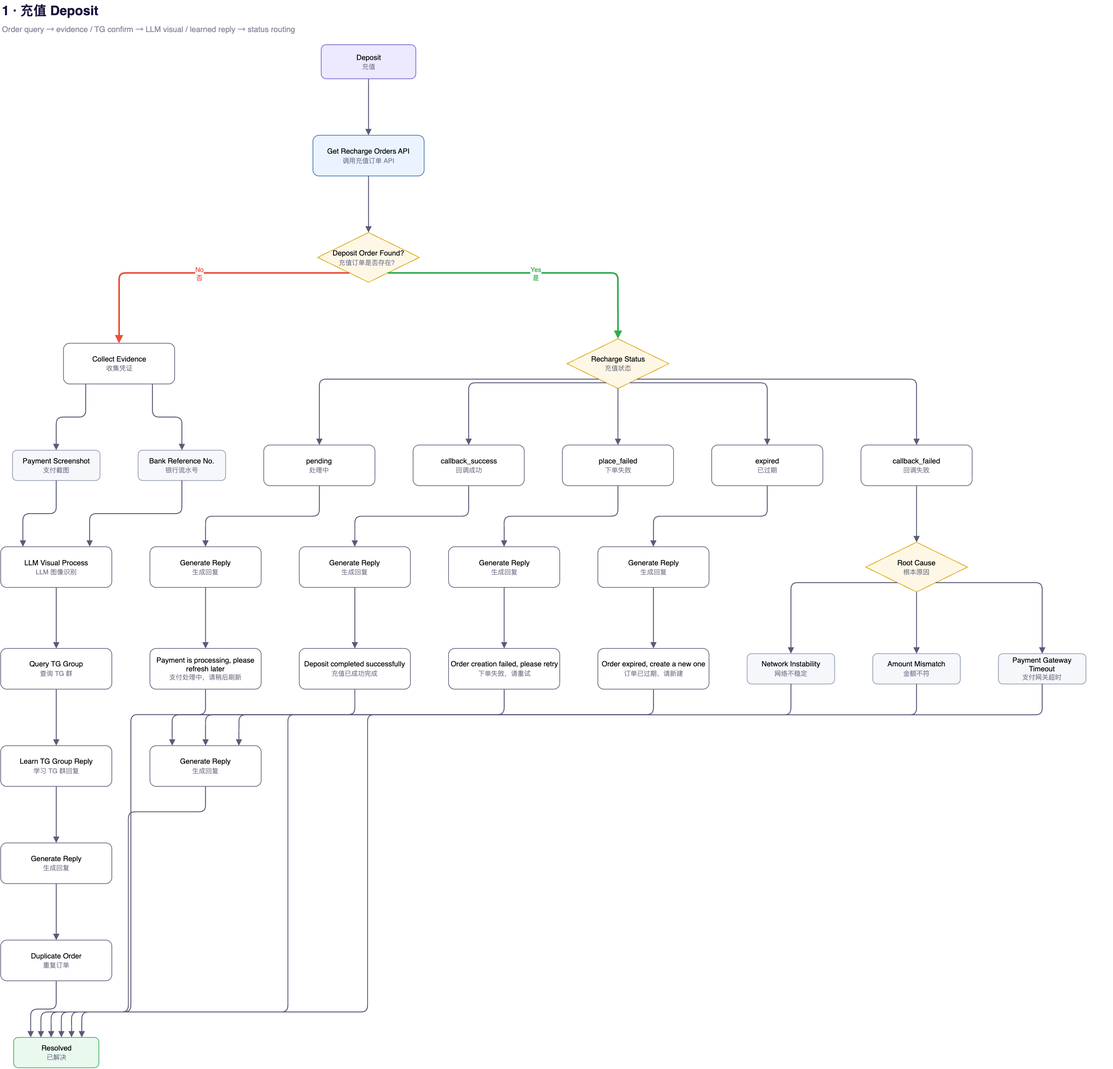
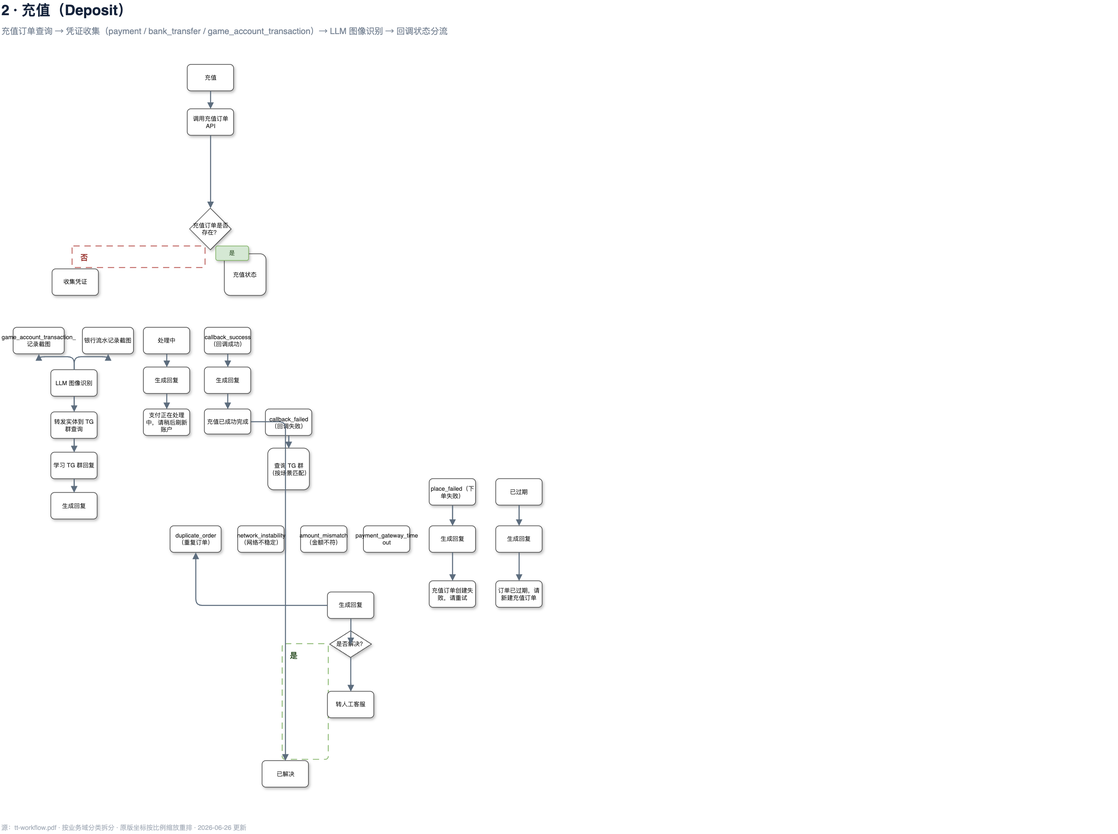
publish: 2026/6/26 13:24:58

diff --git a/docs/AI客服/TT包网_智能客服流程方案.html b/docs/AI客服/TT包网_智能客服流程方案.html
@@ -74,8 +74,8 @@ body{font-family:-apple-system,BlinkMacSystemFont,"PingFang SC","Hiragino Sans G
   <div class="sub">Salesmartly 插件接入 · 包网开放 API 对接 · 精简 SOP 与完整工作流</div>
   <div class="meta-row">
     <span>● 渠道：TT 包网（TikTok）· Salesmartly 在线插件</span>
-    <span>● 整理日期：2026-06-18</span>
-    <span>● 来源：SOP 流程图 + tt-workflow + 包网 API v2.0</span>
+    <span>● 更新日期：2026-06-26（Figma 同步）</span>
+    <span>● 来源：SOP + tt-workflow + AI 输出契约 + 包网 API v2.0</span>
   </div>
 </div>
 
@@ -83,7 +83,7 @@ body{font-family:-apple-system,BlinkMacSystemFont,"PingFang SC","Hiragino Sans G
   <div class="stat-card c-teal"><div class="num">4</div><div class="label">包网开放 API</div></div>
   <div class="stat-card c-blu"><div class="num">6</div><div class="label">业务分支</div></div>
   <div class="stat-card c-grn"><div class="num">8</div><div class="label">完整流程子页</div></div>
-  <div class="stat-card c-ora"><div class="num">2</div><div class="label">流程图（精简/完整）</div></div>
+  <div class="stat-card c-ora"><div class="num">5</div><div class="label">流程图（精简3+完整8 标签）</div></div>
   <div class="stat-card c-pur"><div class="num">1</div><div class="label">Figma 原型</div></div>
 </div>
 
@@ -114,20 +114,24 @@ body{font-family:-apple-system,BlinkMacSystemFont,"PingFang SC","Hiragino Sans G
       <span class="tag tag-cz">充值（②API）</span><span class="tag tag-tx">提现（③API）</span>
       <span class="tag tag-cpf">CPF 绑定/修改</span><span class="tag tag-acct">账户（①API）</span>
       <span class="tag tag-game">游戏/设备/页面</span><span class="tag tag-act">活动奖励（④API）</span></p>
-    <div class="tip">两张流程图：<b>精简流程图</b>（第二节）= 单页 SOP 全局视图；<b>完整流程图</b>（第三节）= 按业务域拆分的 8 个子页，细节最全。点击「全屏查看」可像 Figma 一样拖拽平移、缩放。</div>
+    <div class="tip"><b>2026-06-26 同步（Figma）：</b>①新增<b>统一 AI 输出契约</b>（每条咨询返回 <code>domain / intent / workflow(status·next_action·requires_human) / failure / risk</code> 的 JSON，见第二节「AI 输出契约」页）；②业务状态码全面改 <b>snake_case</b>（<code>callback_success / pending_review / manual_review …</code>，附历史数字码对照）；③充值凭证类型扩展为 <code>payment_screenshot / bank_transfer_record / game_account_transaction_record</code>；④账户问题重命名 <code>cannot_login / cannot_find_uid / cpf_update / account_restricted</code>；⑤奖励新增 <b>兑换码(redeem_code)子流程</b> 与 <code>cpf_mismatch / pix_key_invalid</code> 原因码。详见第二节「同步增量」页。</div>
+    <div class="tip">两张流程图：<b>精简流程图</b>（第二节）= 3 页（操作 SOP + AI 输出契约 + 同步增量）；<b>完整流程图</b>（第三节）= 按业务域拆分的 8 个子页，细节最全。点击「全屏查看」可像 Figma 一样拖拽平移、缩放。</div>
   </div>
 </div>
 
 <div class="fc-container" id="s2">
-  <h2>二、精简流程图（SOP 全局）</h2>
-  <div class="fcsub">对应 draw.io：TT包网_智能客服SOP流程.drawio　·　单页全局视图</div>
-  <div class="fc-toolbar">
-    <button onclick="zoom(this,0.8)">－ 缩小</button><span class="zlbl">100%</span>
-    <button onclick="zoom(this,1.25)">＋ 放大</button><button onclick="zreset(this)">重置</button>
-    <button class="btn" onclick="openViewerBtn(this)" style="margin-left:auto;padding:6px 14px">⛶ 全屏查看</button>
+  <h2>二、精简流程图（SOP）</h2>
+  <div class="fcsub">对应 draw.io：TT包网_智能客服SOP流程.drawio　·　2026-06-26 更新为 3 页：操作 SOP + AI 输出契约 + 同步增量</div>
+  <div class="branch-group">
+    <div class="branch-tab-bar"><div class="branch-tab active" onclick="showTab(this)">操作 SOP 流程</div><div class="branch-tab" onclick="showTab(this)">AI 输出契约（JSON）</div><div class="branch-tab" onclick="showTab(this)">2026-06-26 同步增量</div></div>
+    <div class="fc-toolbar">
+      <button onclick="zoom(this,0.8)">－ 缩小</button><span class="zlbl">100%</span>
+      <button onclick="zoom(this,1.25)">＋ 放大</button><button onclick="zreset(this)">重置</button>
+      <button class="btn" onclick="openViewerBtn(this)" style="margin-left:auto;padding:6px 14px">⛶ 全屏查看</button>
+    </div>
+    <div class="branch-panel active"><div class="branch-cap">操作 SOP · 全局接待流程（Salesmartly 接入版）</div><div class="fc-viewport"><img src="tt-flow/sop.png" data-base="2428" data-title="精简流程图 · 操作 SOP" loading="lazy" style="width:2428px" ondblclick="openViewer(this.src,this.dataset.title)" title="双击全屏 · 拖拽平移 · 工具栏缩放"></div></div><div class="branch-panel"><div class="branch-cap">AI 引擎输出契约 · Sample JSON（domain / intent / workflow / failure / risk）</div><div class="fc-viewport"><img src="tt-flow/sop_contract.png" data-base="1507" data-title="精简流程图 · AI 输出契约" loading="lazy" style="width:1507px" ondblclick="openViewer(this.src,this.dataset.title)" title="双击全屏 · 拖拽平移 · 工具栏缩放"></div></div><div class="branch-panel"><div class="branch-cap">2026-06-26 Figma 同步增量 · snake_case 状态码对照 / 原因码 / 凭证类型 / 账户重命名 / 兑换码子流程</div><div class="fc-viewport"><img src="tt-flow/sop_increment.png" data-base="1507" data-title="精简流程图 · 同步增量" loading="lazy" style="width:1507px" ondblclick="openViewer(this.src,this.dataset.title)" title="双击全屏 · 拖拽平移 · 工具栏缩放"></div></div>
   </div>
-  <div class="fc-viewport" id="vp_sop"><img src="tt-flow/sop.png" data-base="1942" data-title="精简流程图（SOP）" loading="lazy" style="width:1942px" ondblclick="openViewer(this.src,this.dataset.title)" title="双击全屏 · 拖拽平移 · 工具栏缩放"></div>
-  <div class="fchint">提示：视口内可拖拽平移、滚轮滚动；「全屏查看」进入大图模式（拖拽平移 / 缩放 / 关闭）。</div>
+  <div class="fchint">提示：切换上方标签查看 SOP / 契约 / 增量；「全屏查看」进入大图模式（拖拽平移 / 缩放 / 关闭）。</div>
 </div>
 
 <div class="fc-container" id="s3">
@@ -140,7 +144,7 @@ body{font-family:-apple-system,BlinkMacSystemFont,"PingFang SC","Hiragino Sans G
       <button onclick="zoom(this,1.25)">＋ 放大</button><button onclick="zreset(this)">重置</button>
       <button class="btn" onclick="openViewerBtn(this)" style="margin-left:auto;padding:6px 14px">⛶ 全屏查看</button>
     </div>
-    <div class="branch-panel active"><div class="branch-cap">第 0 页 · 客户咨询入口与杂项分类</div><div class="fc-viewport" id="vp_0"><img src="tt-flow/p0_overview.png" data-base="642" data-title="完整流程 · 0 总览" loading="lazy" style="width:642px" ondblclick="openViewer(this.src,this.dataset.title)" title="双击全屏 · 拖拽平移 · 工具栏缩放"></div></div><div class="branch-panel"><div class="branch-cap">第 1 页 · 充值订单查询 → 状态分流</div><div class="fc-viewport" id="vp_1"><img src="tt-flow/p1_deposit.png" data-base="1355" data-title="完整流程 · 1 充值" loading="lazy" style="width:1355px" ondblclick="openViewer(this.src,this.dataset.title)" title="双击全屏 · 拖拽平移 · 工具栏缩放"></div></div><div class="branch-panel"><div class="branch-cap">第 2 页 · 提现状态机（10 状态）</div><div class="fc-viewport" id="vp_2"><img src="tt-flow/p2_withdraw.png" data-base="2330" data-title="完整流程 · 2 提现" loading="lazy" style="width:2330px" ondblclick="openViewer(this.src,this.dataset.title)" title="双击全屏 · 拖拽平移 · 工具栏缩放"></div></div><div class="branch-panel"><div class="branch-cap">第 3 页 · 活动识别 → 奖励记录分析</div><div class="fc-viewport" id="vp_3"><img src="tt-flow/p3_bonus.png" data-base="1612" data-title="完整流程 · 3 奖励" loading="lazy" style="width:1612px" ondblclick="openViewer(this.src,this.dataset.title)" title="双击全屏 · 拖拽平移 · 工具栏缩放"></div></div><div class="branch-panel"><div class="branch-cap">第 4 页 · 登录/CPF/找回/受限 四分支</div><div class="fc-viewport" id="vp_4"><img src="tt-flow/p4_account.png" data-base="1980" data-title="完整流程 · 4 账户" loading="lazy" style="width:1980px" ondblclick="openViewer(this.src,this.dataset.title)" title="双击全屏 · 拖拽平移 · 工具栏缩放"></div></div><div class="branch-panel"><div class="branch-cap">第 5 页 · 设备兼容性检查</div><div class="fc-viewport" id="vp_5"><img src="tt-flow/p5_device.png" data-base="1016" data-title="完整流程 · 5 设备" loading="lazy" style="width:1016px" ondblclick="openViewer(this.src,this.dataset.title)" title="双击全屏 · 拖拽平移 · 工具栏缩放"></div></div><div class="branch-panel"><div class="branch-cap">第 6 页 · spin / bet / reward</div><div class="fc-viewport" id="vp_6"><img src="tt-flow/p6_game_err.png" data-base="2735" data-title="完整流程 · 6 游戏错误" loading="lazy" style="width:2735px" ondblclick="openViewer(this.src,this.dataset.title)" title="双击全屏 · 拖拽平移 · 工具栏缩放"></div></div><div class="branch-panel"><div class="branch-cap">第 7 页 · 加载失败 / 访问拒绝</div><div class="fc-viewport" id="vp_7"><img src="tt-flow/p7_page_err.png" data-base="1098" data-title="完整流程 · 7 页面问题" loading="lazy" style="width:1098px" ondblclick="openViewer(this.src,this.dataset.title)" title="双击全屏 · 拖拽平移 · 工具栏缩放"></div></div>
+    <div class="branch-panel active"><div class="branch-cap">第 0 页 · 客户咨询入口与杂项分类</div><div class="fc-viewport" id="vp_0"><img src="tt-flow/p0_overview.png" data-base="1701" data-title="完整流程 · 0 总览" loading="lazy" style="width:1701px" ondblclick="openViewer(this.src,this.dataset.title)" title="双击全屏 · 拖拽平移 · 工具栏缩放"></div></div><div class="branch-panel"><div class="branch-cap">第 1 页 · 充值订单查询 → 状态分流</div><div class="fc-viewport" id="vp_1"><img src="tt-flow/p1_deposit.png" data-base="1701" data-title="完整流程 · 1 充值" loading="lazy" style="width:1701px" ondblclick="openViewer(this.src,this.dataset.title)" title="双击全屏 · 拖拽平移 · 工具栏缩放"></div></div><div class="branch-panel"><div class="branch-cap">第 2 页 · 提现状态机（10 状态）</div><div class="fc-viewport" id="vp_2"><img src="tt-flow/p2_withdraw.png" data-base="1701" data-title="完整流程 · 2 提现" loading="lazy" style="width:1701px" ondblclick="openViewer(this.src,this.dataset.title)" title="双击全屏 · 拖拽平移 · 工具栏缩放"></div></div><div class="branch-panel"><div class="branch-cap">第 3 页 · 活动识别 → 奖励记录分析</div><div class="fc-viewport" id="vp_3"><img src="tt-flow/p3_bonus.png" data-base="1701" data-title="完整流程 · 3 奖励" loading="lazy" style="width:1701px" ondblclick="openViewer(this.src,this.dataset.title)" title="双击全屏 · 拖拽平移 · 工具栏缩放"></div></div><div class="branch-panel"><div class="branch-cap">第 4 页 · 登录/CPF/找回/受限 四分支</div><div class="fc-viewport" id="vp_4"><img src="tt-flow/p4_account.png" data-base="1701" data-title="完整流程 · 4 账户" loading="lazy" style="width:1701px" ondblclick="openViewer(this.src,this.dataset.title)" title="双击全屏 · 拖拽平移 · 工具栏缩放"></div></div><div class="branch-panel"><div class="branch-cap">第 5 页 · 设备兼容性检查</div><div class="fc-viewport" id="vp_5"><img src="tt-flow/p5_device.png" data-base="1701" data-title="完整流程 · 5 设备" loading="lazy" style="width:1701px" ondblclick="openViewer(this.src,this.dataset.title)" title="双击全屏 · 拖拽平移 · 工具栏缩放"></div></div><div class="branch-panel"><div class="branch-cap">第 6 页 · spin / bet / reward</div><div class="fc-viewport" id="vp_6"><img src="tt-flow/p6_game_err.png" data-base="1701" data-title="完整流程 · 6 游戏错误" loading="lazy" style="width:1701px" ondblclick="openViewer(this.src,this.dataset.title)" title="双击全屏 · 拖拽平移 · 工具栏缩放"></div></div><div class="branch-panel"><div class="branch-cap">第 7 页 · 加载失败 / 访问拒绝</div><div class="fc-viewport" id="vp_7"><img src="tt-flow/p7_page_err.png" data-base="1701" data-title="完整流程 · 7 页面问题" loading="lazy" style="width:1701px" ondblclick="openViewer(this.src,this.dataset.title)" title="双击全屏 · 拖拽平移 · 工具栏缩放"></div></div>
   </div>
   <div class="fchint">提示：切换上方标签查看不同业务域；「全屏查看」进入大图模式。</div>
 </div>
@@ -181,10 +185,13 @@ body{font-family:-apple-system,BlinkMacSystemFont,"PingFang SC","Hiragino Sans G
       <tr><td><b>④ 奖励记录</b><br><span class="tag tag-api">活动分支</span></td><td><code>GET /bonus/records?uid=&amp;activity_name=&amp;activity_key=</code></td>
         <td><code>activity_id</code> · <code>activity_name</code> · <code>activity_key</code> · <code>subcategory</code> · <code>reward_amount</code> · <code>claim_time</code></td></tr>
     </table>
-    <p style="margin-top:14px"><b>充值订单状态（status）：</b>
-      <span class="tag tag-cz">0 待支付</span><span class="tag tag-cz">1 回调成功</span><span class="tag tag-cz">2 下单失败</span><span class="tag tag-cz">3 回调失败</span><span class="tag tag-cz">4 已过期</span></p>
+    <div class="tip" style="margin-top:14px"><b>状态码命名（2026-06-26 起以 snake_case 为准，括号为历史数字码）：</b>统一收敛到 AI 输出契约的 <code>workflow.status</code> 字段，详见第二节「同步增量」对照表。</div>
+    <p style="margin-top:10px"><b>充值订单状态（status）：</b>
+      <span class="tag tag-cz">pending_place (0) 待支付</span><span class="tag tag-cz">callback_success (1) 回调成功</span><span class="tag tag-cz">place_failed (2) 下单失败</span><span class="tag tag-cz">callback_failed (3) 回调失败</span><span class="tag tag-cz">expired (4) 已过期</span><span class="tag tag-cz">+ 原因码 duplicate_order / network_instability / amount_mismatch / payment_gateway_timeout</span></p>
     <p><b>提现订单状态（status）：</b>
-      <span class="tag tag-tx">0 出款中</span><span class="tag tag-tx">1 回调成功</span><span class="tag tag-tx">2 下单失败</span><span class="tag tag-tx">3 回调失败</span><span class="tag tag-tx">4 待下单</span><span class="tag tag-tx">5 待审核</span><span class="tag tag-tx">6 审核通过</span><span class="tag tag-tx">7 审核退还</span><span class="tag tag-tx">8 审核没收</span><span class="tag tag-tx">9 人工复审</span></p>
+      <span class="tag tag-tx">processing (0) 出款中</span><span class="tag tag-tx">callback_success (1) 回调成功</span><span class="tag tag-tx">place_failed (2) 下单失败</span><span class="tag tag-tx">callback_failed (3) 回调失败</span><span class="tag tag-tx">pending_place (4) 待下单</span><span class="tag tag-tx">pending_review (5) 待审核</span><span class="tag tag-tx">review_approved (6) 审核通过</span><span class="tag tag-tx">review_rejected (7) 审核退还</span><span class="tag tag-tx">review_confiscated (8) 没收</span><span class="tag tag-tx">manual_review (9) 人工复审</span><span class="tag tag-tx">pending_submission 待提交</span><span class="tag tag-tx">withdrawal_processing 提现处理中</span></p>
+    <p><b>提现失败/风控原因码（failure.reason / risk）：</b>
+      <span class="tag tag-tx">minimum_amount_not_met 未达最低</span><span class="tag tag-tx">insufficient_turnover 流水不足</span><span class="tag tag-tx">withdrawal_limit_exceeded 限额超出</span><span class="tag tag-tx">identity_verification_required 需身份验证</span><span class="tag tag-tx">risk_review 风控审核</span><span class="tag tag-tx">cpf_mismatch CPF不符</span><span class="tag tag-tx">pix_key_invalid PIX无效</span></p>
     <div class="note">通用约定：所有请求附加 <b>app_id + timestamp + sign</b>；金额单位为<b>分</b>（÷100 转元）；时间为 <b>UTC / ISO 8601</b>；订单号、手机号等敏感字段已<b>脱敏</b>；列表接口支持分页（pageSize 最大 100）。错误码：0 成功 / 7 业务失败 / 401 未认证（缺 app_id / app_id 无效 / 凭证过期）/ 403 签名验证失败或无权限 / 404 资源不存在 / 500 服务器错误。</div>
   </div>
 </div>

diff --git a/docs/AI客服/TT包网_智能客服测试用例.html b/docs/AI客服/TT包网_智能客服测试用例.html
@@ -82,11 +82,11 @@ tr.done td.id::after{content:"  ✓";color:#10b981;font-weight:800;font-size:13p
 
 <div class="header">
 <h1>TT 包网 · 智能客服测试用例（含测试截图）</h1>
-<div class="sub">基于《TT 包网 · 智能客服流程方案》（精简 SOP + tt-workflow 8 子页）全节点拆解 · Salesmartly 插件接入 · 包网开放 API v2.0 · 真实客服测试截图</div>
+<div class="sub">基于《TT 包网 · 智能客服流程方案》（精简 SOP + tt-workflow 8 子页 + AI 输出契约）全节点拆解 · Salesmartly 插件接入 · 包网开放 API v2.0 · 真实客服测试截图</div>
 <div class="meta">
 <span>渠道：TT 包网（TikTok）/ Salesmartly 插件</span>
-<span>版本：v1.0</span>
-<span>整理时间：2026-06-20</span>
+<span>版本：v1.1（2026-06-26 Figma 同步）</span>
+<span>更新时间：2026-06-26</span>
 <span>用例总数：<strong id="totalCases">0</strong></span>
 <span>含测试截图用例：<strong id="imgCases">0</strong></span>
 </div>
@@ -124,6 +124,7 @@ tr.done td.id::after{content:"  ✓";color:#10b981;font-weight:800;font-size:13p
 <li><a href="#m9">9. 页面问题（加载失败 / 访问拒绝）</a><span class="cnt" id="mc9"></span></li>
 <li><a href="#m10">10. 流程闭环（是否已解决）</a><span class="cnt" id="mc10"></span></li>
 <li><a href="#m11">11. 包网开放 API 集成 & MD5 签名鉴权（v2.0）</a><span class="cnt" id="mc11"></span></li>
+<li><a href="#m12">12. AI 输出契约 & 状态码规范（2026-06-26）</a><span class="cnt" id="mc12"></span></li>
 </ul>
 </div>
 
@@ -169,6 +170,8 @@ tr.done td.id::after{content:"  ✓";color:#10b981;font-weight:800;font-size:13p
 <tr><td class="id">TC-2014</td><td><span class="tag tag-func">功能</span></td><td>回调失败(3) 根本原因细分</td><td>②API 返回 status=3 回调失败</td><td><ol class="steps"><li>AI 读取根本原因 Root Cause</li></ol></td><td class="expect">AI 按 <strong>网络不稳定 / 金额不符 / 支付网关超时</strong> 三类原因分别说明并给出对应处理（重试 / 核对金额 / 稍后再试）</td><td>—</td><td><span class="prio p1">P1</span></td></tr>
 <tr><td class="id">TC-2015</td><td><span class="tag tag-int">集成</span></td><td>转发三方群(TG BOT) 并学习回复</td><td>回调失败/已过期或无订单，需三方核实</td><td><ol class="steps"><li>AI 生成【三方查询·充值未到账】转发 TG BOT</li><li>三方人员 reply 结果</li><li>BOT 捕获并学习回复</li></ol></td><td class="expect">AI <strong>转发三方群</strong>并解析三方 reply（已回调 / 未查到 / 凭证不完整）反馈用户，<span class='warn'>不丢失 reply 归属</span></td><td><div class="shot-cell"><img class="shot" src="tt-test-shots/deposit-4elem.png" data-cap="随查询转发的充值凭证"><div class="shot-cap">转发凭证</div></div></td><td><span class="prio p0">P0</span></td></tr>
 <tr><td class="id">TC-2016</td><td><span class="tag tag-edge">边界</span></td><td>以银行流水号替代截图核实</td><td>AI 已请求充值凭证</td><td><ol class="steps"><li>用户仅提供银行流水号/参考号（Clave de rastreo）</li><li>AI 收集</li></ol></td><td class="expect">AI 接受<strong>银行流水号</strong>作为凭证之一并随查询转发；仍建议补充完整截图</td><td>—</td><td><span class="prio p1">P1</span></td></tr>
+<tr><td class="id">TC-2017</td><td><span class="tag tag-func">功能</span></td><td>凭证类型：银行流水记录（bank_transfer_record）</td><td>AI 已请求充值凭证（2026-06-26 新增凭证类型）</td><td><ol class="steps"><li>用户发送银行流水/转账记录截图（非收银台凭证）</li><li>AI 图像识别归类</li></ol></td><td class="expect">AI 识别凭证类型为 <strong>bank_transfer_record</strong>，提取金额/时间/交易号并随订单核实；区别于 payment_screenshot</td><td><div class="shot-cell"><img class="shot" src="tt-test-shots/deposit-proof.jpg" data-cap="银行流水/电子转账记录"><div class="shot-cap">银行流水记录</div></div></td><td><span class="prio p0">P0</span></td></tr>
+<tr><td class="id">TC-2018</td><td><span class="tag tag-func">功能</span></td><td>凭证类型：游戏账户交易记录（game_account_transaction_record）</td><td>AI 已请求充值凭证（2026-06-26 新增凭证类型）</td><td><ol class="steps"><li>用户发送游戏账户内的交易/充值记录截图</li><li>AI 图像识别归类</li></ol></td><td class="expect">AI 识别凭证类型为 <strong>game_account_transaction_record</strong>，结合 UID 与订单 API 交叉核对</td><td>—</td><td><span class="prio p0">P0</span></td></tr>
 </tbody></table>
 </div>
 
@@ -243,6 +246,8 @@ tr.done td.id::after{content:"  ✓";color:#10b981;font-weight:800;font-size:13p
 <tr><td class="id">TC-6008</td><td><span class="tag tag-edge">边界</span></td><td>活动条件不符</td><td>用户领取被拒</td><td><ol class="steps"><li>用户声称符合条件但未发放</li><li>AI 查④API 与活动规则</li></ol></td><td class="expect">AI 对照规则说明不符之处（如未达充值/流水门槛），引导满足条件后再领</td><td>—</td><td><span class="prio p1">P1</span></td></tr>
 <tr><td class="id">TC-6009</td><td><span class="tag tag-func">功能</span></td><td>其他活动 → 转人工</td><td>活动类型无法归类</td><td><ol class="steps"><li>AI 无法将活动归入平台原生/运营推广类</li><li>判定其他活动</li></ol></td><td class="expect">AI 对<strong>其他活动</strong>统一转人工处理，避免误答</td><td>—</td><td><span class="prio p1">P1</span></td></tr>
 <tr><td class="id">TC-6010</td><td><span class="tag tag-func">功能</span></td><td>资格条件细分指引</td><td>未满足领取资格</td><td><ol class="steps"><li>AI 查 TG 群活动要求</li><li>比对用户情况</li></ol></td><td class="expect">AI 按 <strong>活动时间窗 / 充值要求 / 流水要求 / 注册要求</strong> 四类分别说明缺口并指引</td><td><div class="shot-cell"><img class="shot" src="tt-test-shots/platform-activity.jpg" data-cap="平台活动页（资格条件）"><div class="shot-cap">活动资格</div></div></td><td><span class="prio p1">P1</span></td></tr>
+<tr><td class="id">TC-6011</td><td><span class="tag tag-func">功能</span></td><td>★ 兑换码子流程（redeem_code）· 有效</td><td>用户主张奖励缺失（2026-06-26 新增子流程）</td><td><ol class="steps"><li>AI 引导用户检查 SMS / 邮件 / Telegram 消息</li><li>请求 SMS/邮件/兑换码截图</li><li>LLM 图像识别提取兑换码</li><li>查询 TG 群验证兑换码 → 有效</li></ol></td><td class="expect">AI 给出<strong>兑换页导航指引</strong>并提示“请在过期前兑换”，附 claim 路径</td><td><div class="shot-cell"><img class="shot" src="tt-test-shots/sms-inbox.jpeg" data-cap="站内信召回兑换码（Codigo）"><div class="shot-cap">兑换码召回</div></div></td><td><span class="prio p0">P0</span></td></tr>
+<tr><td class="id">TC-6012</td><td><span class="tag tag-edge">边界</span></td><td>★ 兑换码子流程（redeem_code）· 无效</td><td>用户提供兑换码截图</td><td><ol class="steps"><li>LLM 提取兑换码</li><li>查询 TG 群验证 → 无效/不存在（Código não encontrado）</li></ol></td><td class="expect">AI 告知兑换码无效/已过期，核对来源；确认异常则<strong>转人工创建工单</strong>。<span class="warn">不臆造可兑换</span></td><td><div class="shot-cell"><img class="shot" src="tt-test-shots/redeem-fail.jpg" data-cap="兑换码无效 Código não encontrado"><div class="shot-cap">兑换码无效</div></div></td><td><span class="prio p0">P0</span></td></tr>
 </tbody></table>
 </div>
 
@@ -309,7 +314,24 @@ tr.done td.id::after{content:"  ✓";color:#10b981;font-weight:800;font-size:13p
 </tbody></table>
 </div>
 
-<div class="footer">TT 包网 · 智能客服测试用例 · v1.0 · 2026-06-20 · 截图来源：真实客服测试 · 流程依据：TT包网_智能客服流程方案</div>
+<div class="sec" id="m12">
+<div class="sec-head"><h2>12. AI 输出契约 & 状态码规范（2026-06-26 Figma 同步）</h2><span class="cnt-badge" id="mb12"></span></div>
+<div class="flow-ref">流程图节点（精简流程图·AI 输出契约/同步增量页）：工作流引擎对每条咨询统一返回 JSON —— 基础上下文(uid/platform_id/product_id) · 路由(domain·intent) · workflow(status·next_action·requires_human) · failure(category·reason·identified_by) · risk(label)；业务状态码统一 snake_case（含历史数字码对照）</div>
+<table class="tc"><thead><tr><th>ID</th><th>类型</th><th>用例名称</th><th>前置条件</th><th>详细步骤</th><th>期望结果</th><th>测试截图</th><th>优先级</th></tr></thead><tbody>
+<tr><td class="id">TC-12001</td><td><span class="tag tag-int">集成</span></td><td>★ AI 输出契约结构完整性</td><td>工作流引擎对一条咨询产出结果</td><td><ol class="steps"><li>触发任意业务咨询</li><li>检查引擎返回 JSON</li></ol></td><td class="expect">返回体含 <strong>domain / intent / workflow{status,next_action,requires_human} / failure / risk</strong> 全字段；基础上下文 uid/platform_id/product_id 必有。<span class="warn">缺字段应告警而非静默</span></td><td>—</td><td><span class="prio p0">P0</span></td></tr>
+<tr><td class="id">TC-12002</td><td><span class="tag tag-int">集成</span></td><td>★ requires_human=true → 强制转人工</td><td>workflow.requires_human=true</td><td><ol class="steps"><li>引擎返回 requires_human:true</li></ol></td><td class="expect"><strong>必须转人工客服</strong>，AI 不得自动闭环回复。<span class="warn">忽略该标记直接回复即缺陷</span></td><td>—</td><td><span class="prio p0">P0</span></td></tr>
+<tr><td class="id">TC-12003</td><td><span class="tag tag-int">集成</span></td><td>requires_human=false → AI 自动闭环</td><td>workflow.requires_human=false</td><td><ol class="steps"><li>引擎返回 requires_human:false + next_action:generate_reply</li></ol></td><td class="expect">AI 按 next_action 自动生成回复闭环，不必要地转人工应视为偏差</td><td>—</td><td><span class="prio p0">P0</span></td></tr>
+<tr><td class="id">TC-12004</td><td><span class="tag tag-int">集成</span></td><td>next_action 消费路由</td><td>引擎返回不同 next_action</td><td><ol class="steps"><li>分别返回 transfer_to_human_agent / generate_reply / collect_evidence / create_ticket</li></ol></td><td class="expect">AI 分别执行：转人工 / 生成回复 / 索取凭证 / 创建工单，<strong>动作与字段一致</strong></td><td>—</td><td><span class="prio p0">P0</span></td></tr>
+<tr><td class="id">TC-12005</td><td><span class="tag tag-int">集成</span></td><td>failure.category 决定话术模板</td><td>workflow 含 failure.category</td><td><ol class="steps"><li>分别返回 category = risk / payment / system / user_data</li></ol></td><td class="expect">AI 按失败大类选用对应话术模板（风控谨慎 / 支付核实 / 系统兜底 / 信息纠正），不串用</td><td>—</td><td><span class="prio p0">P0</span></td></tr>
+<tr><td class="id">TC-12006</td><td><span class="tag tag-func">功能</span></td><td>failure.reason 原因码映射</td><td>workflow 含 failure.reason</td><td><ol class="steps"><li>返回 cpf_mismatch / amount_mismatch / payment_gateway_timeout / duplicate_order / network_instability 等</li></ol></td><td class="expect">分别给出：引导更新 CPF / 重新发起 / 重试 / 引导查询账户 / 刷新或重试，<strong>原因码与话术一一对应</strong></td><td>—</td><td><span class="prio p0">P0</span></td></tr>
+<tr><td class="id">TC-12007</td><td><span class="tag tag-int">集成</span></td><td>risk.label 风控处置</td><td>workflow 含 risk.label</td><td><ol class="steps"><li>分别返回 null / suspicious_pattern / velocity / blacklist</li></ol></td><td class="expect">null 正常放行；其余<strong>打风控标记 / 限制操作 / 转风控</strong>，<span class="warn">不向用户暴露风控细节</span></td><td>—</td><td><span class="prio p0">P0</span></td></tr>
+<tr><td class="id">TC-12008</td><td><span class="tag tag-int">集成</span></td><td>snake_case 状态码与历史数字码对齐</td><td>订单 API 返回状态</td><td><ol class="steps"><li>返回 callback_success(1)/pending_review(5)/manual_review(9)/review_confiscated(8) 等</li></ol></td><td class="expect">AI 以 <strong>snake_case</strong> 为准解析，且与历史数字码映射一致（见同步增量对照表），新旧并存不串档</td><td>—</td><td><span class="prio p0">P0</span></td></tr>
+<tr><td class="id">TC-12009</td><td><span class="tag tag-int">集成</span></td><td>identified_by 责任方路由</td><td>failure.identified_by 存在</td><td><ol class="steps"><li>返回 payment_team / risk_team / provider / platform</li></ol></td><td class="expect">工单/转接归属对应责任方，<strong>不错派</strong></td><td>—</td><td><span class="prio p1">P1</span></td></tr>
+<tr><td class="id">TC-12010</td><td><span class="tag tag-int">集成</span></td><td>domain / intent 路由分类</td><td>引擎返回路由字段</td><td><ol class="steps"><li>domain ∈ withdraw/deposit/bonus/account/game/device/page/non_uid_process</li><li>intent 细分（withdraw_status / cpf_update / bonus_missing …）</li></ol></td><td class="expect">AI 据 domain 进对应业务流，据 intent 选子分支；<strong>non_uid_process 走无 UID 流程</strong></td><td>—</td><td><span class="prio p1">P1</span></td></tr>
+</tbody></table>
+</div>
+
+<div class="footer">TT 包网 · 智能客服测试用例 · v1.1（2026-06-26 Figma 同步）· 截图来源：真实客服测试 · 流程依据：TT包网_智能客服流程方案</div>
 </div>
 
 <a class="fab" href="/html-pages/" title="返回首页">⌂</a>
@@ -329,11 +351,11 @@ tr.done td.id::after{content:"  ✓";color:#10b981;font-weight:800;font-size:13p
 <script>
 // ===== Stats =====
 (function(){
-  var map={'s1':['m2'],'s2':['m3'],'s3':['m4','m5'],'s4':['m6'],'s5':['m7','m8','m9'],'s6':['m11'],'s7':['m1','m10']};
+  var map={'s1':['m2'],'s2':['m3'],'s3':['m4','m5'],'s4':['m6'],'s5':['m7','m8','m9'],'s6':['m11','m12'],'s7':['m1','m10']};
   var total=0;
   for(var k in map){var c=0;map[k].forEach(function(id){c+=document.querySelectorAll('#'+id+' tbody tr').length});var el=document.getElementById(k);if(el)el.textContent=c;total+=c}
   document.getElementById('totalCases').textContent=total;
-  for(var i=1;i<=11;i++){var n=document.querySelectorAll('#m'+i+' tbody tr').length;var el=document.getElementById('mc'+i);if(el)el.textContent=' ('+n+')';var el2=document.getElementById('mb'+i);if(el2)el2.textContent=n+' 条'}
+  for(var i=1;i<=12;i++){var n=document.querySelectorAll('#m'+i+' tbody tr').length;var el=document.getElementById('mc'+i);if(el)el.textContent=' ('+n+')';var el2=document.getElementById('mb'+i);if(el2)el2.textContent=n+' 条'}
   document.getElementById('imgCases').textContent=document.querySelectorAll('img.shot').length+' 张';
 })();
 // ===== Filter =====
